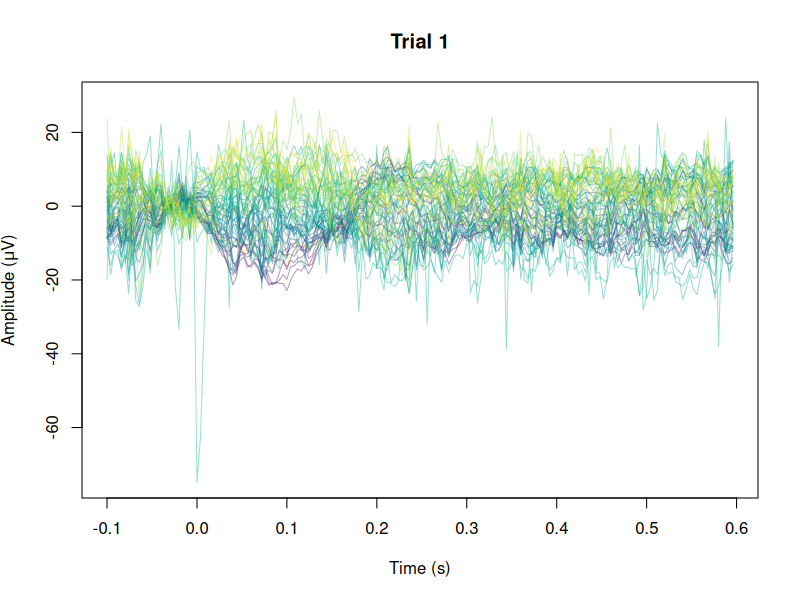
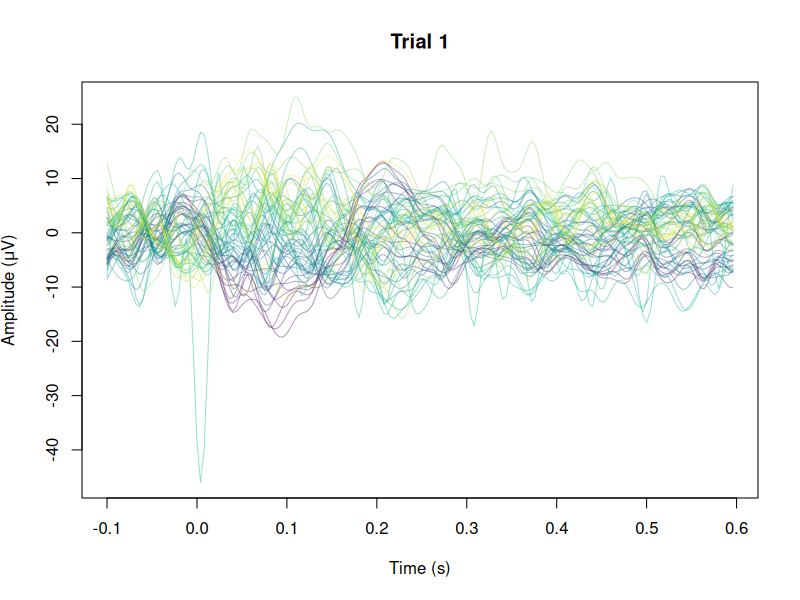
Add low pass filtering, refactor visualization plots, start reworking separate analyses

diff --git a/src/preprocess.m b/src/preprocess.m
@@ -12,6 +12,42 @@ dataset = load("data_tms_clean.mat");
 disp("Before:")
 dataset = dataset.data_tms_clean
 
+%% Create time-locked averages
+% https://www.fieldtriptoolbox.org/tutorial/tms/tms-eeg/#time-locked-averaging
+
+addpath(genpath("lib/fieldtrip-20261111"))
+
+cfg = [];
+cfg.preproc.demean = 'yes';
+cfg.preproc.baselinewindow = [-0.05 -0.001];
+cfg.preproc.lpfilter = 'yes';
+cfg.preproc.lpfreq = 35;
+
+% Find all trials corresponding to the relax condition
+cfg.trials = find(dataset.trialinfo==1);
+relax_avg = ft_timelockanalysis(cfg, dataset);
+
+% Find all trials corresponding to the contract condition
+cfg.trials = find(dataset.trialinfo==3);
+contract_avg = ft_timelockanalysis(cfg, dataset);
+
+% Calculate the difference ERP wave
+cfg = [];
+cfg.operation = 'subtract'; % Operation to apply
+cfg.parameter = 'avg'; % The field in the data structure to which to apply the operation
+difference_avg = ft_math(cfg, contract_avg, relax_avg);
+
+% Plot TEPs of both conditions
+cfg = [];
+cfg.layout = 'easycapM10'; % Specifying this allows you to produce topographical plots of your data
+cfg.channel = '17';
+cfg.xlim = [-0.1 0.6];
+ft_singleplotER(cfg, relax_avg, contract_avg, difference_avg);
+ylabel('Amplitude (uV)');
+xlabel('time (s)');
+title('Relax vs Contract');
+legend({'relax' 'contract' 'contract-relax'});
+
 %% Strip dataset to only necessary information
 
 % Remove unnecessary fields
